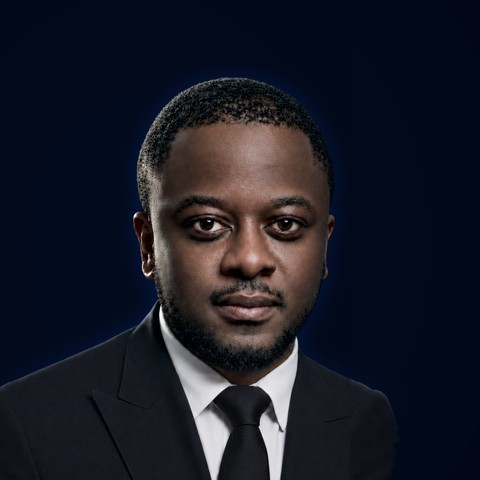
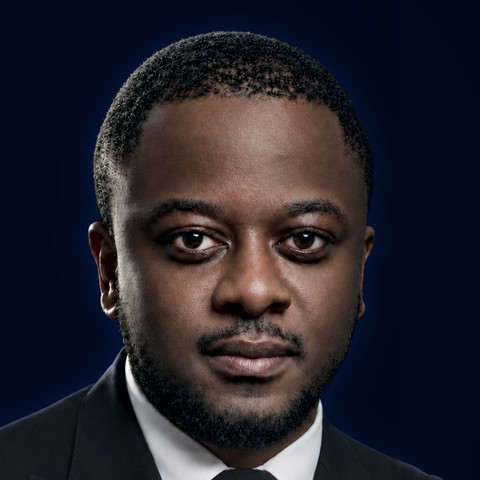
Portrait d'Élysée Johnson : visage centré dans les cercles (photo carrée resserrée, signature recentrée)
Claude-Session: https://claude.ai/code/session_01SNkhRibC2hGy1FjcBgAF8c

diff --git a/clone/habillage.css b/clone/habillage.css
@@ -335,7 +335,7 @@ html[data-clone] #musee .mu-merci{background:none!important;color:rgba(255,255,2
 html[data-clone] .efa-sig{margin:18px 0 0}
 html[data-clone] .efa-sig a{display:inline-flex;align-items:center;gap:10px;padding:5px 14px 5px 5px;border-radius:999px;background:#fff;box-shadow:0 0 0 1px #dbe6f0;color:#071d38!important;font:700 14.5px/1.25 "Source Sans 3",sans-serif;text-decoration:none!important}
 html[data-clone] .efa-sig a:hover{box-shadow:0 0 0 1.5px #0b63b0}
-html[data-clone] .efa-sig img{width:34px;height:34px;border-radius:50%;object-fit:cover;object-position:50% 18%;flex:none}
+html[data-clone] .efa-sig img{width:34px;height:34px;border-radius:50%;object-fit:cover;object-position:50% 40%;flex:none}
 
 /* Le menu garde sa largeur sur toutes les pages */
 html[data-clone] .menu-panel,html[data-clone] .menu-panel *{box-sizing:border-box}

diff --git a/scripts/clone/habillage-base.css b/scripts/clone/habillage-base.css
@@ -269,7 +269,7 @@ html[data-clone] #musee .mu-merci{background:none!important;color:rgba(255,255,2
 html[data-clone] .efa-sig{margin:18px 0 0}
 html[data-clone] .efa-sig a{display:inline-flex;align-items:center;gap:10px;padding:5px 14px 5px 5px;border-radius:999px;background:#fff;box-shadow:0 0 0 1px #dbe6f0;color:#071d38!important;font:700 14.5px/1.25 "Source Sans 3",sans-serif;text-decoration:none!important}
 html[data-clone] .efa-sig a:hover{box-shadow:0 0 0 1.5px #0b63b0}
-html[data-clone] .efa-sig img{width:34px;height:34px;border-radius:50%;object-fit:cover;object-position:50% 18%;flex:none}
+html[data-clone] .efa-sig img{width:34px;height:34px;border-radius:50%;object-fit:cover;object-position:50% 40%;flex:none}
 
 /* Le menu garde sa largeur sur toutes les pages */
 html[data-clone] .menu-panel,html[data-clone] .menu-panel *{box-sizing:border-box}

diff --git a/clone/clair.css b/clone/clair.css
@@ -113,7 +113,7 @@ html.cl-hall .aig>section.fondateur{display:block!important}
 .efa-sig{margin:18px 0 0}
 .efa-sig a{display:inline-flex;align-items:center;gap:10px;padding:5px 14px 5px 5px;border-radius:999px;background:#fff;box-shadow:0 0 0 1px #dbe6f0;color:#071d38!important;font:700 14.5px/1.25 "Source Sans 3",sans-serif;text-decoration:none!important}
 .efa-sig a:hover{box-shadow:0 0 0 1.5px #0b63b0}
-.efa-sig img{width:34px;height:34px;border-radius:50%;object-fit:cover;object-position:50% 18%;flex:none}
+.efa-sig img{width:34px;height:34px;border-radius:50%;object-fit:cover;object-position:50% 40%;flex:none}
 
 .concept-trib{color:#071d38!important;font-weight:700}
 
